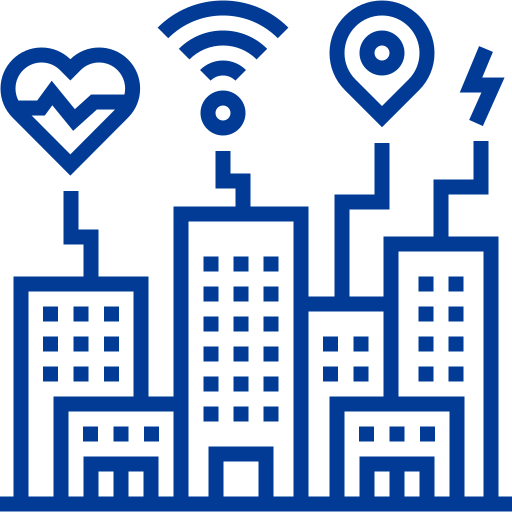
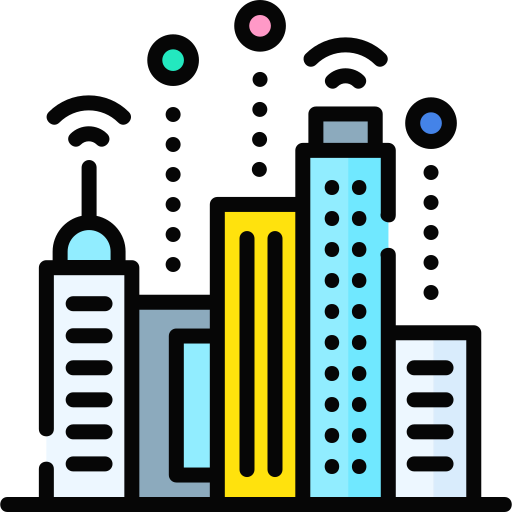
Added new pngs

diff --git a/components/ThemesSection/Themes.tsx b/components/ThemesSection/Themes.tsx
@@ -7,8 +7,7 @@ import Tilt from "react-parallax-tilt";
 const themes = [
   {
     title: "Sustainability",
-    image:
-      "/assets/images/sustain.png",
+    image: "/assets/images/sustain2.png",
   },
   {
     title: "Healthcare",
@@ -22,28 +21,23 @@ const themes = [
   },
   {
     title: "Web3",
-    image:
-      "https://raw.githubusercontent.com/Tarikul-Islam-Anik/Animated-Fluent-Emojis/master/Emojis/Travel%20and%20places/Globe%20with%20Meridians.png",
+    image: "/assets/images/web.png",
   },
   {
     title: "IOT",
-    image:
-      "/assets/images/iot.png",
+    image: "/assets/images/iot.png",
   },
   {
     title: "Smart cities",
-    image:
-    "/assets/images/scity.png",
+    image: "/assets/images/scity.png",
   },
   {
     title: "E-Commerse",
-    image:
-    "/assets/images/store.png",
+    image: "/assets/images/ecommerce.png",
   },
   {
     title: "Food & agriculture",
-    image:
-    "/assets/images/foods.png",
+    image: "/assets/images/harvest.png",
   },
   {
     title: "Open Innovation",
@@ -90,21 +84,29 @@ export default function Themes() {
       <div className="flex justify-center mt-28 ">
         <div className="grid grid-cols-2  md:grid-cols-3 lg:grid-cols-3 xl:grid-cols-3 md:gap-x-8 md:gap-y-8 gap-3    themeContainer1">
           {[...themes].map(({ title, image }) => (
-            <div className="max-w-md mx-auto  md:w-64 md:h-full sm:w-44 w-40 h-full  overflow-hidden ">
-              <Card
+            <div className="max-w-md mx-auto  md:w-64 md:h-full sm:w-44 w-40 h-full overflow-hidden ">
+               <Card
+                key={title}
+                title={title}
+                icon={
+                  <img
+                    src={image}
+                    alt={title}
+                    className="md:w-[10rem] md:h-[10rem] w-[15rem] h-[rem] "
+                  />
+                }
+              />
+              {/* <Card
                 key={title}
                 title={title}
                 icon={
                   <Image
                     src={image}
                     alt={title}
-                    width={80}
-            height={80}
-            objectFit="cover"
                     className="md:w-[10rem] md:h-[10rem] w-[15rem] h-[rem] "
                   />
                 }
-              />
+              /> */}
             </div>
           ))}
         </div>
